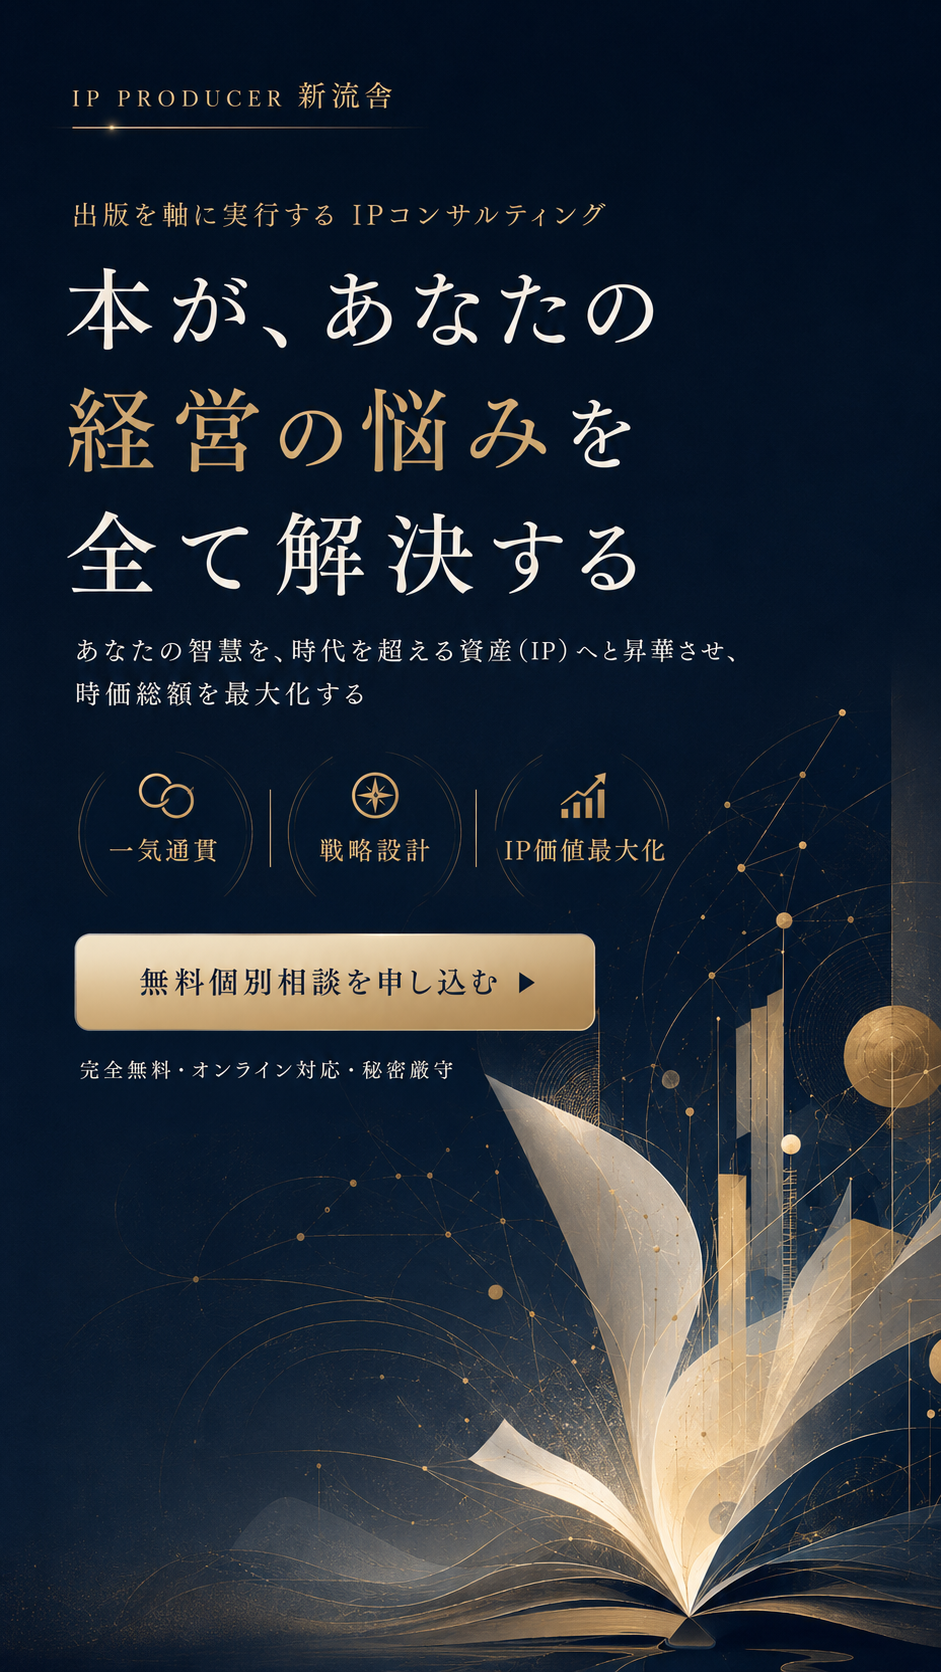
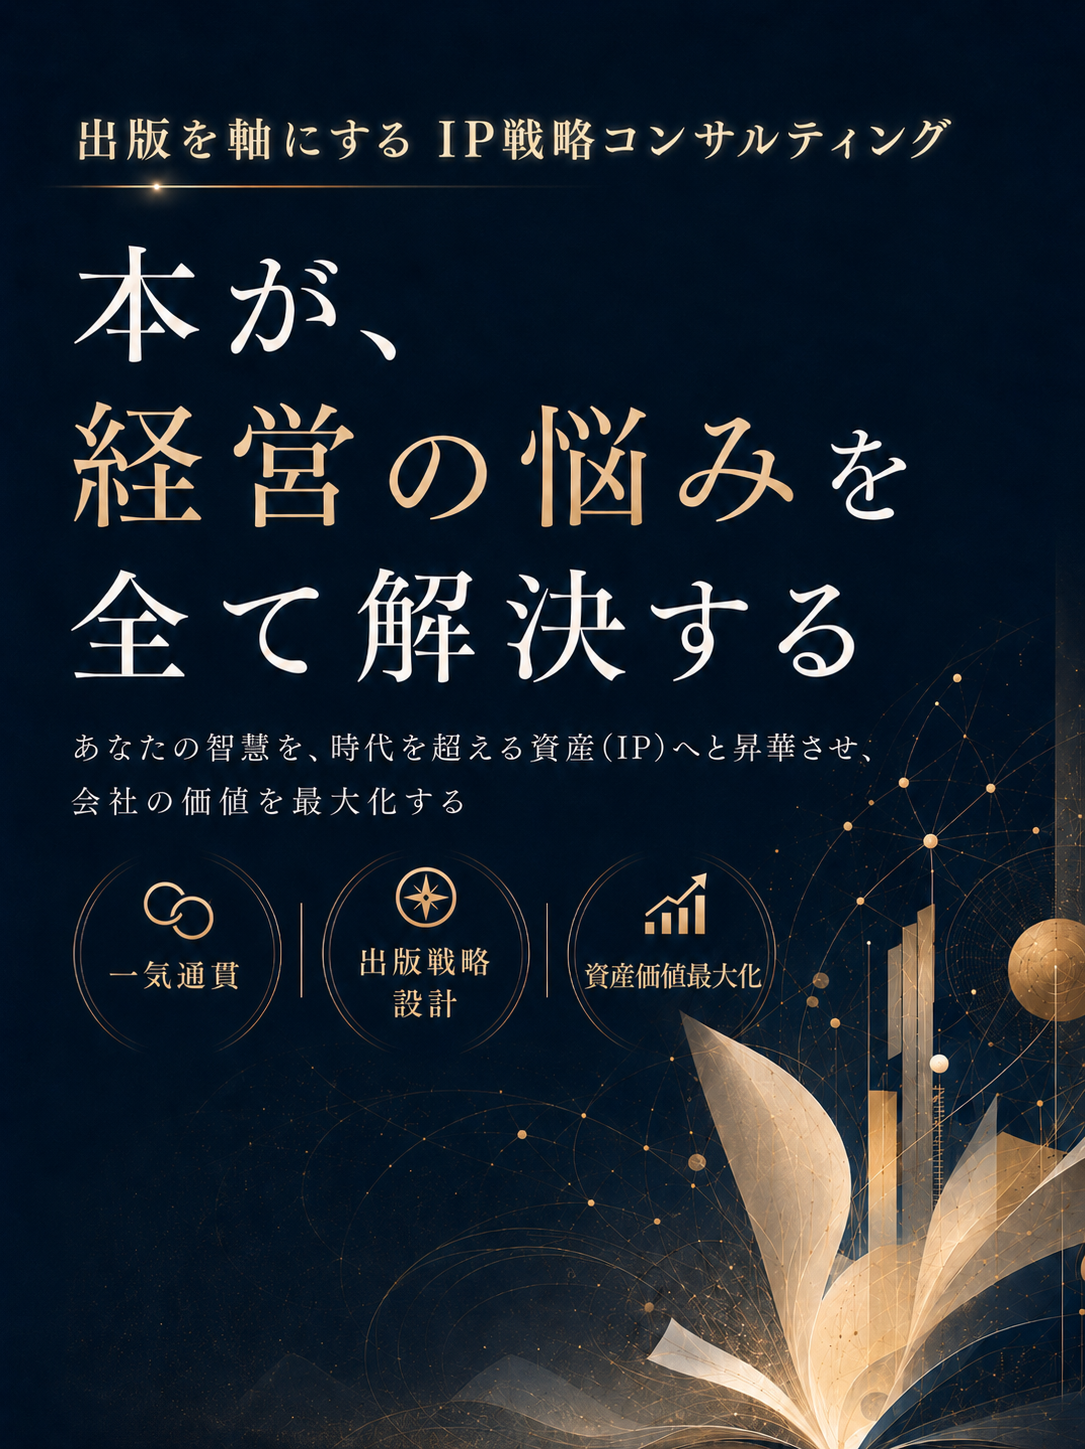
Replace v9 hero image and add fade-blur to next section

diff --git a/v9/index.html b/v9/index.html
@@ -37,10 +37,23 @@
     /* ─── HERO ─── */
     .hero {
       width: 100%;
+      position: relative;
     }
     .hero img {
       width: 100%;
       display: block;
+    }
+    .hero::after {
+      content: "";
+      position: absolute;
+      left: 0;
+      right: 0;
+      bottom: 0;
+      height: 32%;
+      background: linear-gradient(to bottom, rgba(6,11,24,0) 0%, rgba(6,11,24,0.65) 55%, var(--navy) 100%);
+      backdrop-filter: blur(1px);
+      -webkit-backdrop-filter: blur(1px);
+      pointer-events: none;
     }
 
     /* ─── SECTION BASE ─── */
